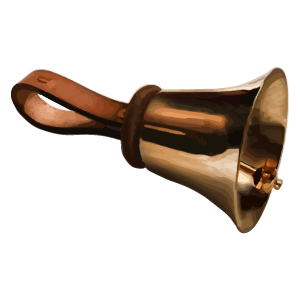
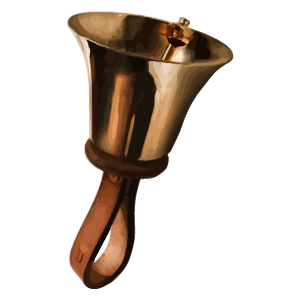
handbell images in place

diff --git a/app/static/ringing_room.js b/app/static/ringing_room.js
@@ -178,6 +178,10 @@ Vue.component("bell_rope", {
 
     computed: {
 
+        image_prefix: function(){
+            return this.$root.$refs.controls.audio_type === 'Tower' ? 't-' : 'h-';
+        },
+
         assignment_mode: function(){
             return this.$root.$refs.users.assignment_mode;
         },
@@ -259,14 +263,16 @@ Vue.component("bell_rope", {
                 <div class="row"
                     :class="[left_side ? 'reverse' :  '',
                              top_side ? 'top-xs' : 'bottom-xs']">
-                    <div class="col-xs-3">
+
+                    <div :class="[image_prefix == 'h-' ? 'col-xs-5' : 'col-xs-3']">
                      <img @click='emit_ringing_event'
                            class="bell_img" 
-                          :class='{assignment_mode: assignment_mode}'
-                          :src="'static/images/' + (stroke ? images[0] : images[1]) + '.png'"
+                          :class="[assignment_mode ? 'assignment_mode' : '']"
+                          :src="'static/images/' + image_prefix + (stroke ? images[0] : images[1]) + '.png'"
                           />
                     </div>
-                    <div class="col-xs-9 bell_metadata">
+                    <div class="bell_metadata"
+                         :class="[image_prefix == 'h-' ? 'col-xs-7' : 'col-xs-9']">
                     <div class="row left-xs-12"
                          :class="{reverse: top_side}">
 

diff --git a/app/static/css/ringing_room.css b/app/static/css/ringing_room.css
@@ -215,7 +215,6 @@ fieldset {
     z-index: 1;
 }
 
-
 .bell .row{
     padding: 0;
 }
@@ -262,6 +261,12 @@ fieldset {
 .number.treble, .number.treble.cur_user {
 	color: #ff000d;
 }
+
+.left_side .bell_img {
+  -webkit-transform: scaleX(-1);
+  transform: scaleX(-1);
+}
+
 
 @media screen and (max-width: 40rem){
     .help_showing{
